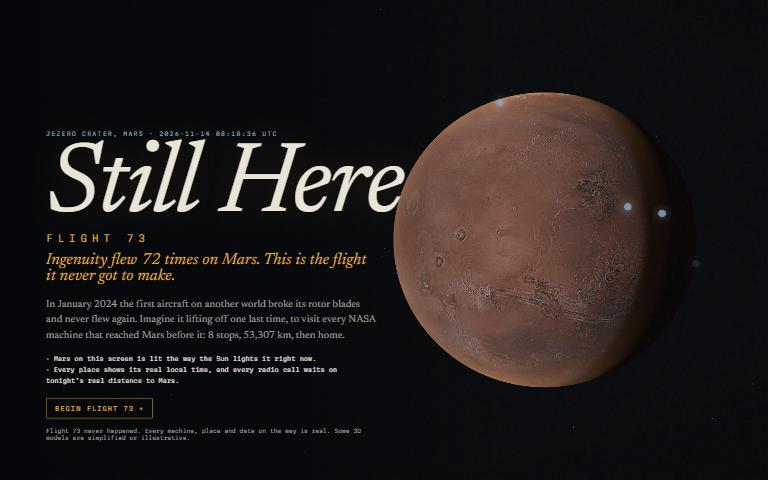
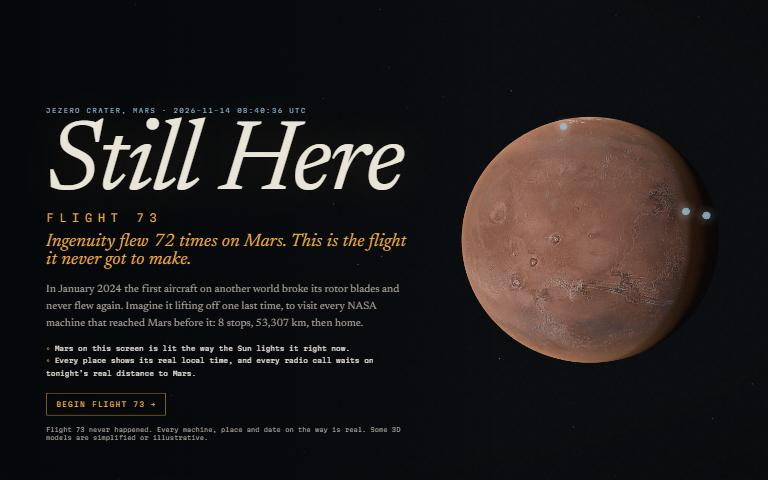
Show the parachute: flatten clearings after hills; refresh screenshots
A distant hill's foot raised the clearing ~0.2 m and buried the parachute
canopy lying 3 cm above zero. Clearings are now flattened after hills are
added, so every machine sits exactly on flat ground; the backshell clearing
is widened to cover the whole canopy.

Changed region(s): [[0.0625, 0.1875, 0.9375, 0.9375]]

diff --git a/src/scene/terrain.ts b/src/scene/terrain.ts
@@ -106,9 +106,10 @@ export function buildGround(p: SitePreset, lay: SiteLayout): Ground {
       h += p.ripples * Math.sin(u * ((2 * Math.PI) / 1.7) + 4 * fbm(x / 7, z / 7, p.seed + 3)) * (0.5 + 0.5 * fbm(x / 9, z / 9, p.seed + 5));
     }
     if (p.polygons > 0) h -= 0.06 * (1 - smoothstep(0.05, 0.4, polygonEdge(x, z, p.polygons, p.seed)));
-    h *= f;
+    // Flatten after adding the hills: a big hill's foot reaches the clearing (Jezero's rim added
+    // ~0.2 m there) and would bury anything lying flat on the ground, like the parachute.
     for (const hill of hills) h += hill.h * Math.exp(-((x - hill.x) ** 2 + (z - hill.z) ** 2) / hill.r2);
-    return h;
+    return h * f;
   };
 
   // ---- the ground

diff --git a/src/scene/sites.ts b/src/scene/sites.ts
@@ -189,7 +189,8 @@ export const SITE_PRESETS: Record<MachineId, SitePreset> = {
     cameraElev: 22,
     yawOffset: 0,
     hills: [{ azDeg: 285, dist: 90, radius: 45, height: 11 }],
-    clear: 9,
+    // Wide enough to keep the whole spread-out parachute on flat ground.
+    clear: 15,
     ingenuity: { right: 3.6, toward: 1.5 },
     frame: { left: -8.5, right: 4.3, height: 2.6 },
     antenna: [0, 1.4, 0],
